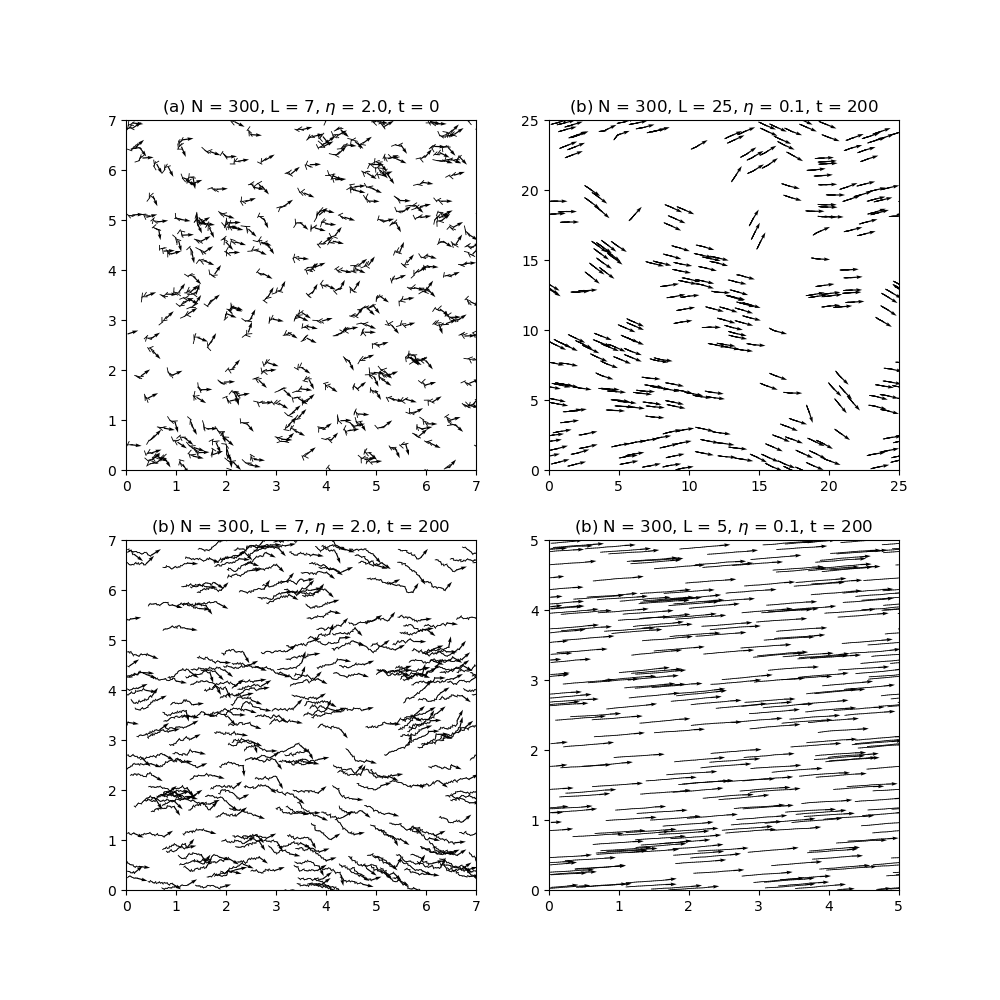
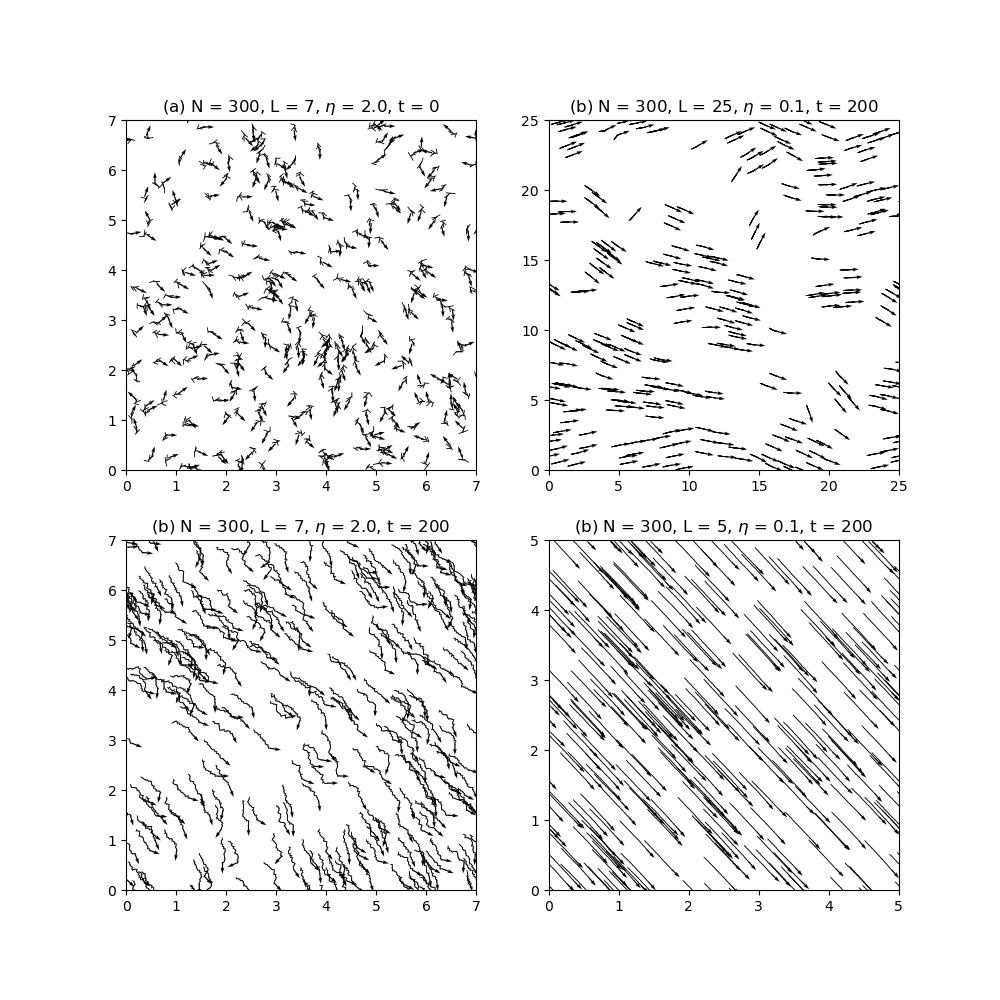
fixes because I am stupid

diff --git a/vicsek.py b/vicsek.py
@@ -36,16 +36,24 @@ def mean_theta(x_in, y_in, theta_in, *params):
         nearest_neighbour = tree.query_ball_point(coord[i], R)
         avg_sin = np.mean(np.sin(theta_in[nearest_neighbour]))
         avg_cos = np.mean(np.cos(theta_in[nearest_neighbour]))
-        if avg_cos > 0:
-            mean_theta[i] = np.arctan(avg_sin/avg_cos)
-        elif avg_cos < 0:
-            mean_theta[i] = np.arctan(avg_sin/avg_cos) + np.pi
+        if avg_cos > 0 & avg_sin > 0:
+            mean_theta[i] = np.arctan(np.abs(avg_sin/avg_cos))
+        elif avg_cos < 0 & avg_sin > 0:
+            mean_theta[i] = np.arctan(np.abs(avg_sin/avg_cos)) + np.pi/2
+        elif avg_cos < 0 & avg_sin < 0:
+            mean_theta[i] = np.arctan(np.abs(avg_sin/avg_cos)) + np.pi
+        elif avg_cos > 0 & avg_sin < 0:
+            mean_theta[i] = np.arctan(np.abs(avg_sin/avg_cos)) + 3*np.pi/2
         elif avg_cos == 0 and avg_sin > 0:
             mean_theta[i] = np.pi/2
         elif avg_cos == 0 and avg_sin < 0:
-            mean_theta[i] = -np.pi/2
+            mean_theta[i] = 3*np.pi/2
+        elif avg_cos > 0 and avg_sin == 0:
+            mean_theta[i] = 0
+        elif avg_cos < 0 and avg_sin == 0:
+            mean_theta[i] = np.pi
         else:
-            mean_theta[i] = np.random.uniform(-np.pi, np.pi)
+            mean_theta[i] = np.random.uniform(0, 2*np.pi)
     return mean_theta
 
 # Updating the positions and velocities of the particles
@@ -58,7 +66,7 @@ def update(x, y, theta, *params):
     eta = params[6]
     vx = v*np.cos(theta)
     vy = v*np.sin(theta)
-    theta = (mean_theta(x, y, theta, *params) + np.random.uniform(-eta/2, eta/2, (N, 1)))
+    theta = (mean_theta(x, y, theta, *params) + np.random.uniform(-eta/2, eta/2, (N, 1)))%(2*np.pi)
     x = (x + vx*dt)%L
     y = (y + vy*dt)%L
     return x, y, theta
@@ -77,7 +85,7 @@ def compute(*params):
     # Defining the initial positions and velocities
     x = np.random.uniform(0, L, (N, 1))
     y = np.random.uniform(0, L, (N, 1))
-    theta = np.random.uniform(-np.pi, np.pi, (N, 1))
+    theta = np.random.uniform(0, 2*np.pi, (N, 1))
     X = np.zeros((int(t_max/dt), N))
     Y = np.zeros((int(t_max/dt), N))
     Theta = np.zeros((int(t_max/dt), N))
